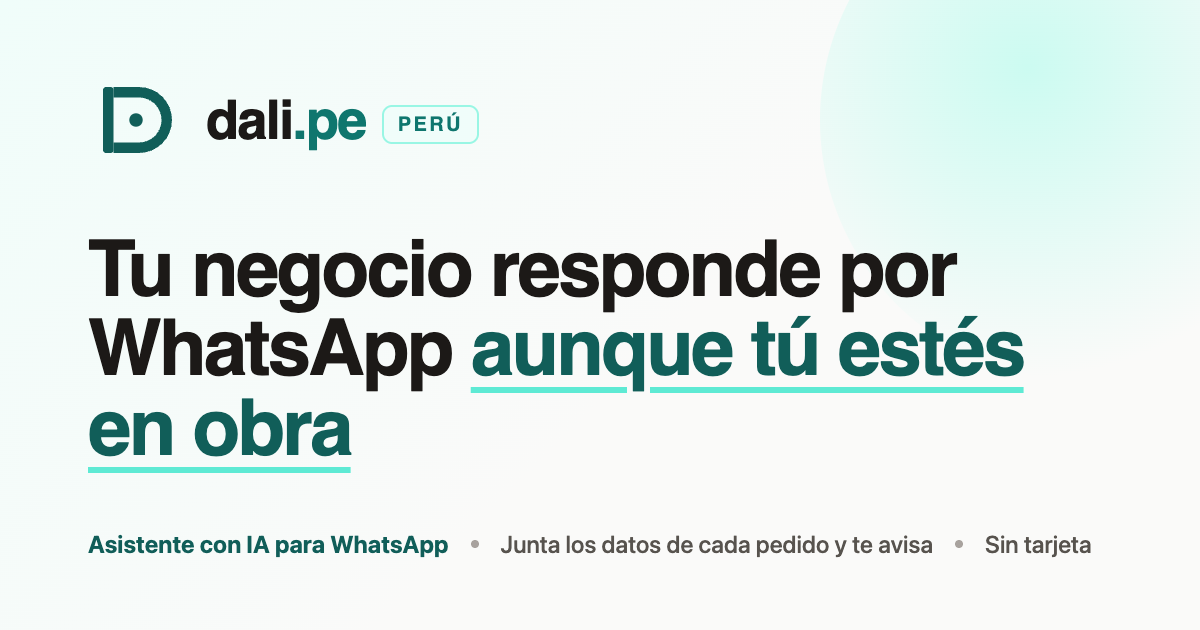
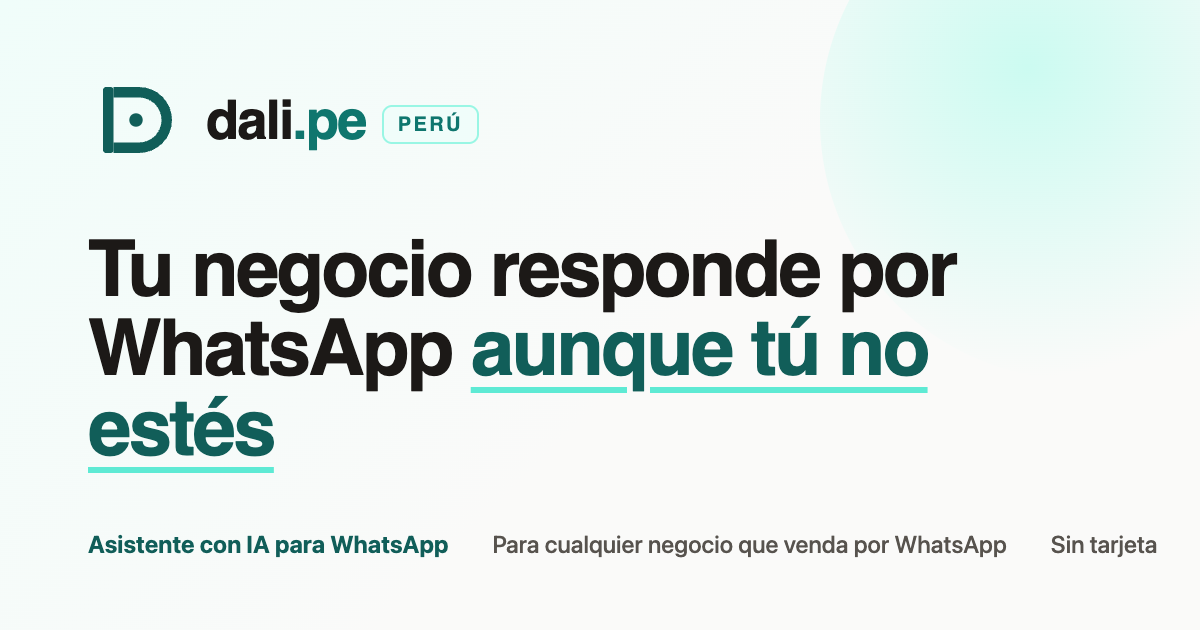
fix(dali): la landing habla para cualquier negocio, no para una obra
Dali es multivertical: el rubro solo cambia el guion. El héroe, el título,
la descripción y la tarjeta al compartir dejan de decir «obra» y de mostrar
un ejemplo de asfalto; la conversación de muestra es el patrón de Dali con
un negocio cualquiera. Los rubros siguen diciendo cuál está disponible hoy.

Changed region(s): [[0.4008, 0.8444, 0.9867, 0.9048], [0.0925, 0.6333, 0.3083, 0.754], [0.7092, 0.4825, 0.8633, 0.6333]]

diff --git a/ui/dali/src/screens/landing/LandingScreen.tsx b/ui/dali/src/screens/landing/LandingScreen.tsx
@@ -7,11 +7,14 @@ import { cn } from '@/lib/utils';
 
 /**
  * P1 «Landing» (diseños `P1-landing` móvil, tablet y escritorio): la página
- * pública de Dali, en `/dali/` sin sesión (con sesión se va al inicio). Lo
- * que dice es lo que el producto hace hoy: la conversación de muestra sigue
- * el guion real de asfalto, los tres pasos son P4→P6, «lo que Dali no hace»
- * son las reglas del asistente (sin precios cerrados, sin fechas
- * prometidas, pasa a una persona y se calla 30 min). **Contra el diseño,
+ * pública de Dali, en `/dali/` sin sesión (con sesión se va al inicio). Dali
+ * es para cualquier negocio que venda por WhatsApp —el rubro solo cambia el
+ * guion—, así que la landing habla en general (José, 16/09: nada de «obra» ni
+ * de ejemplos de asfalto en el héroe); la conversación de muestra es el patrón
+ * de Dali con un negocio cualquiera, los tres pasos son P4→P6, «lo que Dali
+ * no hace» son las reglas del asistente (sin precios cerrados, sin fechas
+ * prometidas, pasa a una persona y se calla 30 min). Los rubros dicen cuál
+ * está disponible hoy y cuáles vienen, sin esconderlo. **Contra el diseño,
  * deliberado**: sin precios ni planes (el piloto no tiene costo; los planes
  * los define José en F4), sin «14 días» (el piloto no tiene plazo), sin
  * logos de clientes (Inframaq es un cliente y no dio permiso; Globofast no
@@ -76,7 +79,7 @@ const PASOS: Array<{ icono: IconName; tono: string; titulo: string; texto: strin
     icono: 'notifications_active',
     tono: 'teal',
     titulo: '3. Dali atiende y te avisa',
-    texto: 'Dali guía la conversación con amabilidad y te manda el resumen ordenado a tu celular: metrado, lugar y teléfono del cliente.',
+    texto: 'Dali guía la conversación con amabilidad y te manda el resumen ordenado a tu celular: qué necesita, cuánto, dónde y el teléfono del cliente.',
     pie: 'Leads listos para cotizar',
     pieIcono: 'check_circle',
   },
@@ -86,7 +89,7 @@ const NO_HACE: Array<{ icono: IconName; titulo: string; texto: string }> = [
   {
     icono: 'block',
     titulo: 'No inventa precios cerrados ni descuentos',
-    texto: 'Junta los datos técnicos que tú necesitas (m², ubicación, espesor). No da presupuestos: deriva a tu cotización, salvo que tú pongas una tarifa fija en el catálogo.',
+    texto: 'Junta los datos que tú necesitas (cantidad, lugar, fecha). No da presupuestos: deriva a tu cotización, salvo que tú pongas una tarifa fija en el catálogo.',
   },
   {
     icono: 'event_busy',
@@ -149,13 +152,14 @@ export function LandingScreen() {
         <div className="mx-auto grid max-w-6xl gap-10 px-4 py-10 md:px-6 md:py-16 lg:grid-cols-[1.25fr_1fr] lg:items-center lg:py-20">
           <div>
             <span className="inline-flex items-center gap-2 rounded-full border border-teal-200/80 bg-white px-3 py-1.5 font-body text-sm font-semibold text-teal-800">
-              <span className="size-2 rounded-full bg-teal-500" /> Asistente con IA conectado a tu WhatsApp
+              <span className="size-2 rounded-full bg-teal-500" /> Asistente con IA para el WhatsApp de cualquier negocio
             </span>
             <h1 className="mt-5 font-headline text-[36px] font-bold leading-[1.05] tracking-tight text-stone-900 md:text-[56px] lg:text-[60px]">
-              Tu negocio responde por WhatsApp <span className="text-teal-800 underline decoration-teal-300 decoration-4 underline-offset-8">aunque tú estés en obra</span>
+              Tu negocio responde por WhatsApp <span className="text-teal-800 underline decoration-teal-300 decoration-4 underline-offset-8">aunque tú no estés</span>
             </h1>
             <p className="mt-6 max-w-xl font-body text-lg leading-relaxed text-stone-600 md:text-xl">
-              Dali atiende a tus clientes, junta los datos de cada pedido y te avisa ordenado al celular. <b className="font-semibold text-stone-900">Tú solo cotizas.</b>
+              Dali atiende a tus clientes, junta los datos de cada pedido o consulta y te avisa ordenado al celular.{' '}
+              <b className="font-semibold text-stone-900">Tú solo cierras la venta.</b>
             </p>
             <div className="mt-8 flex flex-col gap-3 sm:flex-row">
               <Link
@@ -190,7 +194,7 @@ export function LandingScreen() {
 
       <section className="border-y border-stone-200 bg-white">
         <p className="mx-auto max-w-6xl px-4 py-6 text-center font-label text-[13px] font-semibold uppercase tracking-[0.12em] text-stone-600 md:px-6">
-          Ya atiende a empresas de asfalto y obras en Lima
+          Ya atiende negocios en Lima y provincias
         </p>
       </section>
 
@@ -226,7 +230,7 @@ export function LandingScreen() {
         id="rubros"
         pill="Vocabulario y lógica peruana"
         titulo="Un asistente preparado para cada rubro"
-        texto="Dali no da respuestas genéricas de robot: conoce los términos y las preguntas clave de cada negocio. Hoy atiende asfalto y obras; los demás rubros vienen después."
+        texto="Dali no da respuestas genéricas de robot: conoce los términos y las preguntas clave de cada rubro, y se le enseña el tuyo con un Excel."
         fondo="bg-white"
       >
         <div className="grid gap-4 md:grid-cols-2">
@@ -244,7 +248,7 @@ export function LandingScreen() {
                       r.disponible ? 'border-teal-200 bg-white text-teal-800' : 'border-stone-200 bg-white text-stone-600'
                     )}
                   >
-                    {r.disponible ? r.chip : 'Próximamente'}
+                    {r.disponible ? `${r.chip} · disponible` : 'Próximamente'}
                   </span>
                 </div>
               </div>
@@ -293,7 +297,7 @@ export function LandingScreen() {
             {[
               '1 número de WhatsApp conectado (el tuyo, sin cambiar de chip)',
               'Conversaciones sin límite mientras dure el piloto',
-              'El pack de asfalto y obras listo: servicios, preguntas y plantilla',
+              'El pack de tu rubro listo: servicios, preguntas y plantilla de Excel',
               'Avisos de cada lead a tu WhatsApp personal',
               'Carga de conocimiento por Excel, las veces que quieras',
             ].map((t) => (
@@ -318,7 +322,7 @@ export function LandingScreen() {
             <BrandMark size="sm" />
             <span className="font-body text-sm text-stone-500">· un producto de Constroad Ingenieros</span>
           </div>
-          <p className="font-body text-sm text-stone-500">© 2026 Dali.pe — Para empresas y contratistas de Lima y todo el Perú.</p>
+          <p className="font-body text-sm text-stone-500">© 2026 Dali.pe — Para negocios de Lima y todo el Perú.</p>
         </div>
       </footer>
     </div>
@@ -342,18 +346,23 @@ function Seccion({ id, pill, titulo, texto, fondo, children }: { id: string; pil
   );
 }
 
-/** La conversación de muestra sigue el guion real de asfalto: área y lugar, espesor, base. */
+/**
+ * La conversación de muestra: el patrón de Dali en modo lead —saluda, pregunta
+ * qué necesita, cuánto, dónde y para cuándo, y avisa— con un negocio
+ * cualquiera, porque Dali no es de un rubro: el guion de cada rubro solo
+ * cambia las preguntas.
+ */
 function ChatDeMuestra() {
   return (
     <div className="overflow-hidden rounded-2xl border border-stone-200 bg-stone-200/70 shadow-xl">
       <div className="flex items-center gap-3 bg-teal-900 px-4 py-3 text-white">
         <span className="relative flex size-11 items-center justify-center rounded-full border-2 border-teal-500 bg-stone-900 font-headline text-sm font-bold">
-          CR
+          TN
           <span className="absolute -bottom-0.5 -right-0.5 size-3 rounded-full border-2 border-teal-900 bg-emerald-400" />
         </span>
         <div className="min-w-0 flex-1">
           <p className="flex items-center gap-1.5 font-headline text-base font-bold">
-            CONSTROAD Asfaltos <Icon name="verified" className="text-base text-emerald-300" />
+            Tu negocio <Icon name="verified" className="text-base text-emerald-300" />
           </p>
           <p className="font-body text-xs text-teal-100">en línea · Dali, asistente</p>
         </div>
@@ -364,21 +373,21 @@ function ChatDeMuestra() {
       <div className="space-y-3 px-3 py-4">
         <p className="mx-auto w-fit rounded-lg bg-white/80 px-3 py-1 font-label text-[11px] font-semibold uppercase tracking-wider text-stone-500">Hoy · Lima, Perú</p>
         <Burbuja lado="cliente" hora="10:41">
-          Necesito asfaltar 600 m² en Lurín
+          Hola, ¿tienen para el viernes? Necesito una cotización
         </Burbuja>
-        <Burbuja lado="dali" hora="10:41" quien="Dali (asistente de CONSTROAD)">
-          ¡Hola! Soy Dali, la asistente de <b className="font-semibold">CONSTROAD</b> 👋 Con gusto te ayudamos. ¿Qué espesor buscas? 1", 2" o 3"…
+        <Burbuja lado="dali" hora="10:41" quien="Dali (asistente de Tu negocio)">
+          ¡Hola! Soy Dali, la asistente de <b className="font-semibold">Tu negocio</b> 👋 Con gusto te ayudo. ¿Qué necesitas y en qué cantidad?
         </Burbuja>
         <Burbuja lado="cliente" hora="10:42">
-          2 pulgadas
+          Unas 40 unidades, para mi local en Surco
         </Burbuja>
         <Burbuja lado="dali" hora="10:42" quien="Dali">
-          Perfecto: espesor 2". ¿La base ya está preparada (afirmado compactado) o es terreno natural?
+          Perfecto: 40 unidades para el viernes en Surco. ¿A nombre de quién va la cotización y a qué número te llamamos?
         </Burbuja>
         <div className="flex items-center gap-3 rounded-xl bg-stone-900 px-4 py-3 text-white">
           <Icon name="notifications_active" className="shrink-0 text-2xl text-amber-400" />
           <p className="min-w-0 flex-1 font-body text-sm">
-            Aviso a tu WhatsApp personal: <b className="font-semibold">Lead calificado (600 m² · Lurín)</b>
+            Aviso a tu WhatsApp personal: <b className="font-semibold">Lead calificado (40 unidades · Surco · viernes)</b>
           </p>
           <span className="shrink-0 rounded-lg bg-teal-700 px-2.5 py-1.5 text-center font-body text-xs font-semibold">Listo para cotizar</span>
         </div>

diff --git a/ui/dali/index.html b/ui/dali/index.html
@@ -6,7 +6,7 @@
     <title>Dali · Tu negocio responde por WhatsApp</title>
     <meta
       name="description"
-      content="Dali es la asistente con IA que atiende el WhatsApp de tu negocio, junta los datos de cada pedido y te avisa ordenado al celular. Español de Perú, sin tarjeta."
+      content="Dali es la asistente con IA que atiende el WhatsApp de cualquier negocio: junta los datos de cada pedido o consulta y te avisa ordenado al celular. Español de Perú, sin tarjeta."
     />
     <meta name="robots" content="index,follow" />
     <link rel="canonical" href="https://dali.constroad.com/" />
@@ -20,12 +20,12 @@
     <meta property="og:site_name" content="Dali" />
     <meta property="og:locale" content="es_PE" />
     <meta property="og:url" content="https://dali.constroad.com/" />
-    <meta property="og:title" content="Dali · Tu negocio responde por WhatsApp aunque tú estés en obra" />
+    <meta property="og:title" content="Dali · Tu negocio responde por WhatsApp aunque tú no estés" />
     <meta property="og:description" content="Asistente con IA para el WhatsApp de tu negocio: atiende, junta los datos de cada pedido y te avisa. Español de Perú, sin tarjeta." />
     <meta property="og:image" content="https://dali.constroad.com/dali/og.png" />
     <meta property="og:image:width" content="1200" />
     <meta property="og:image:height" content="630" />
-    <meta property="og:image:alt" content="Dali: tu negocio responde por WhatsApp aunque tú estés en obra" />
+    <meta property="og:image:alt" content="Dali: tu negocio responde por WhatsApp aunque tú no estés" />
     <meta name="twitter:card" content="summary_large_image" />
     <meta name="twitter:title" content="Dali · Tu negocio responde por WhatsApp" />
     <meta name="twitter:description" content="Asistente con IA para el WhatsApp de tu negocio: atiende, junta los datos de cada pedido y te avisa." />
